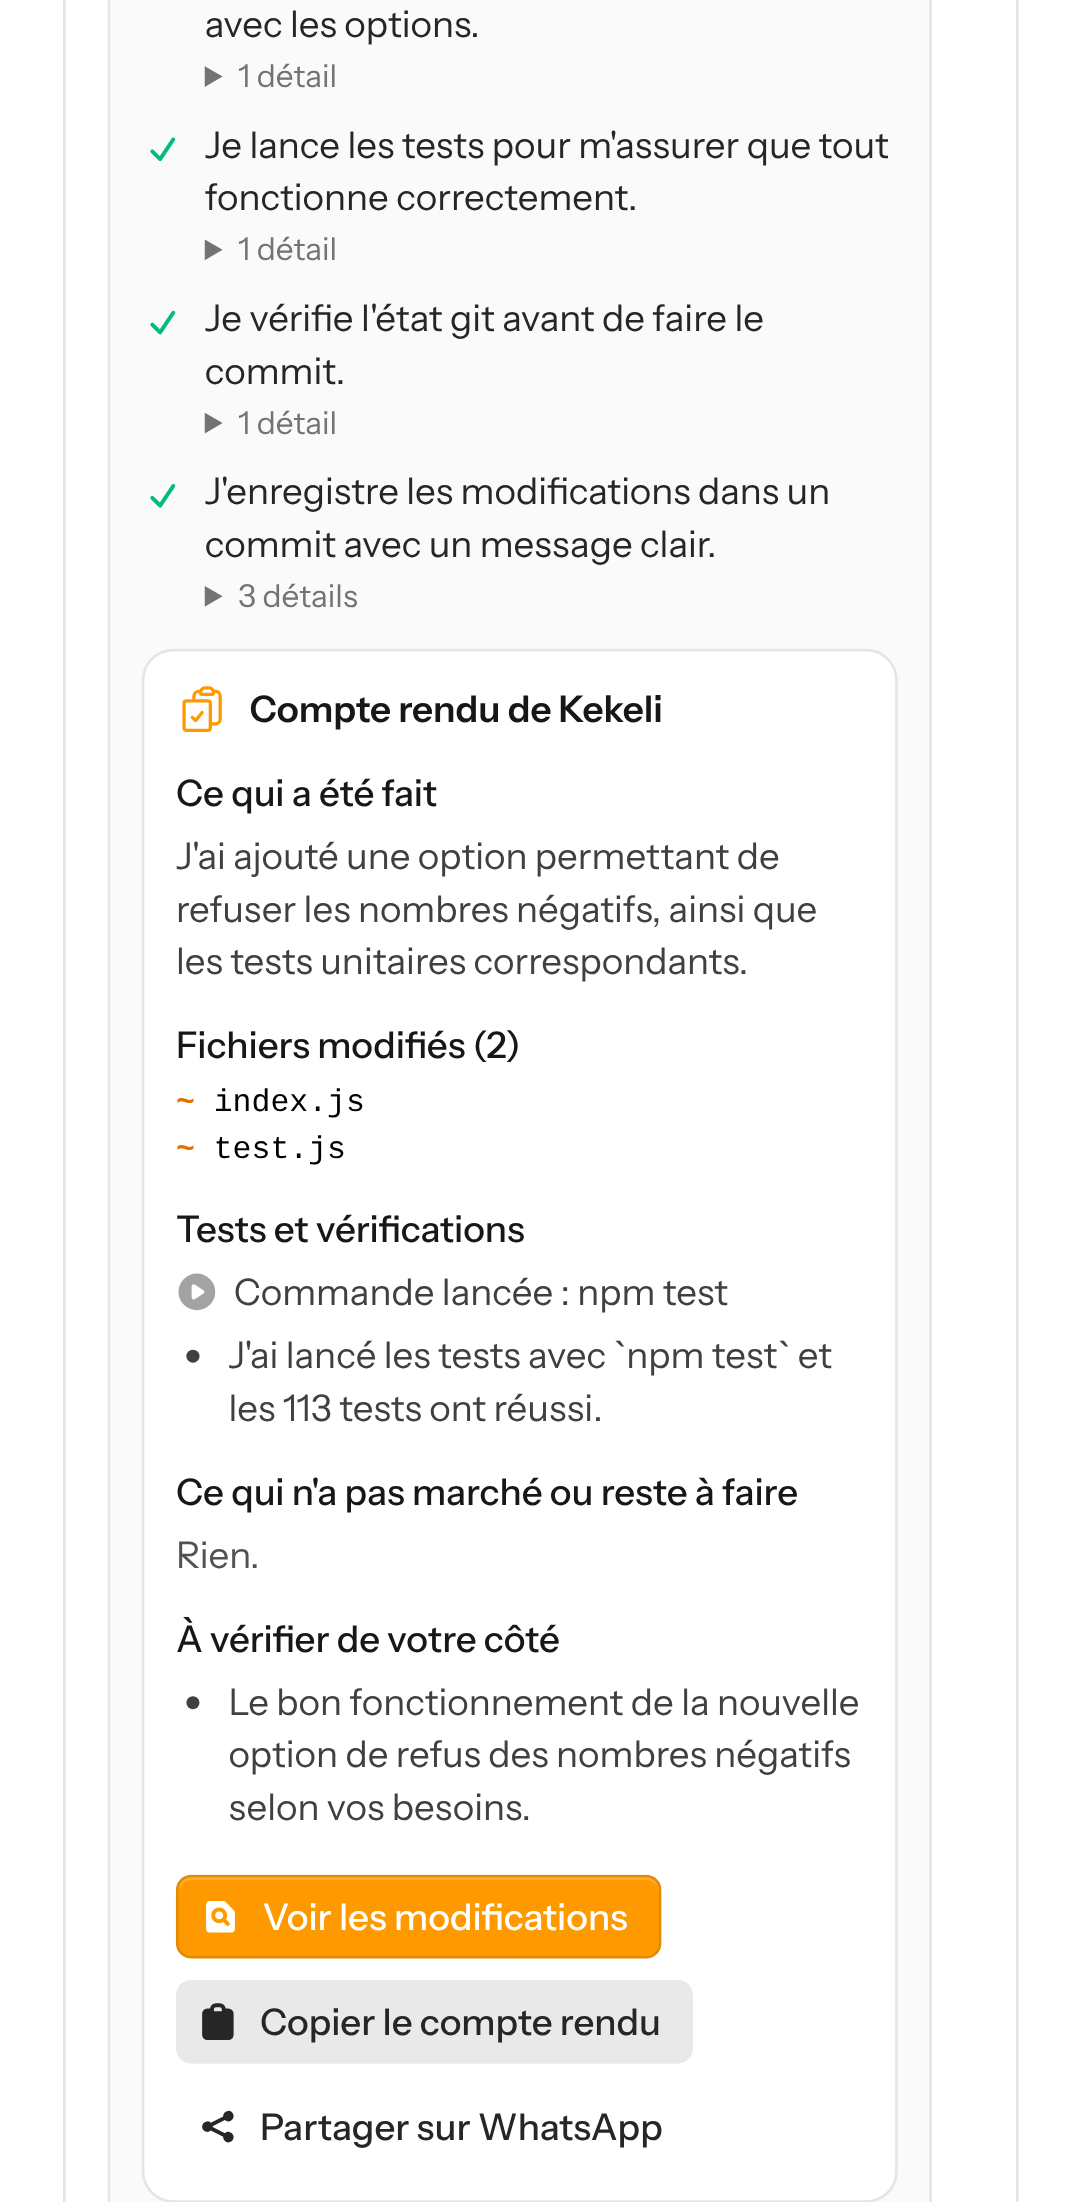
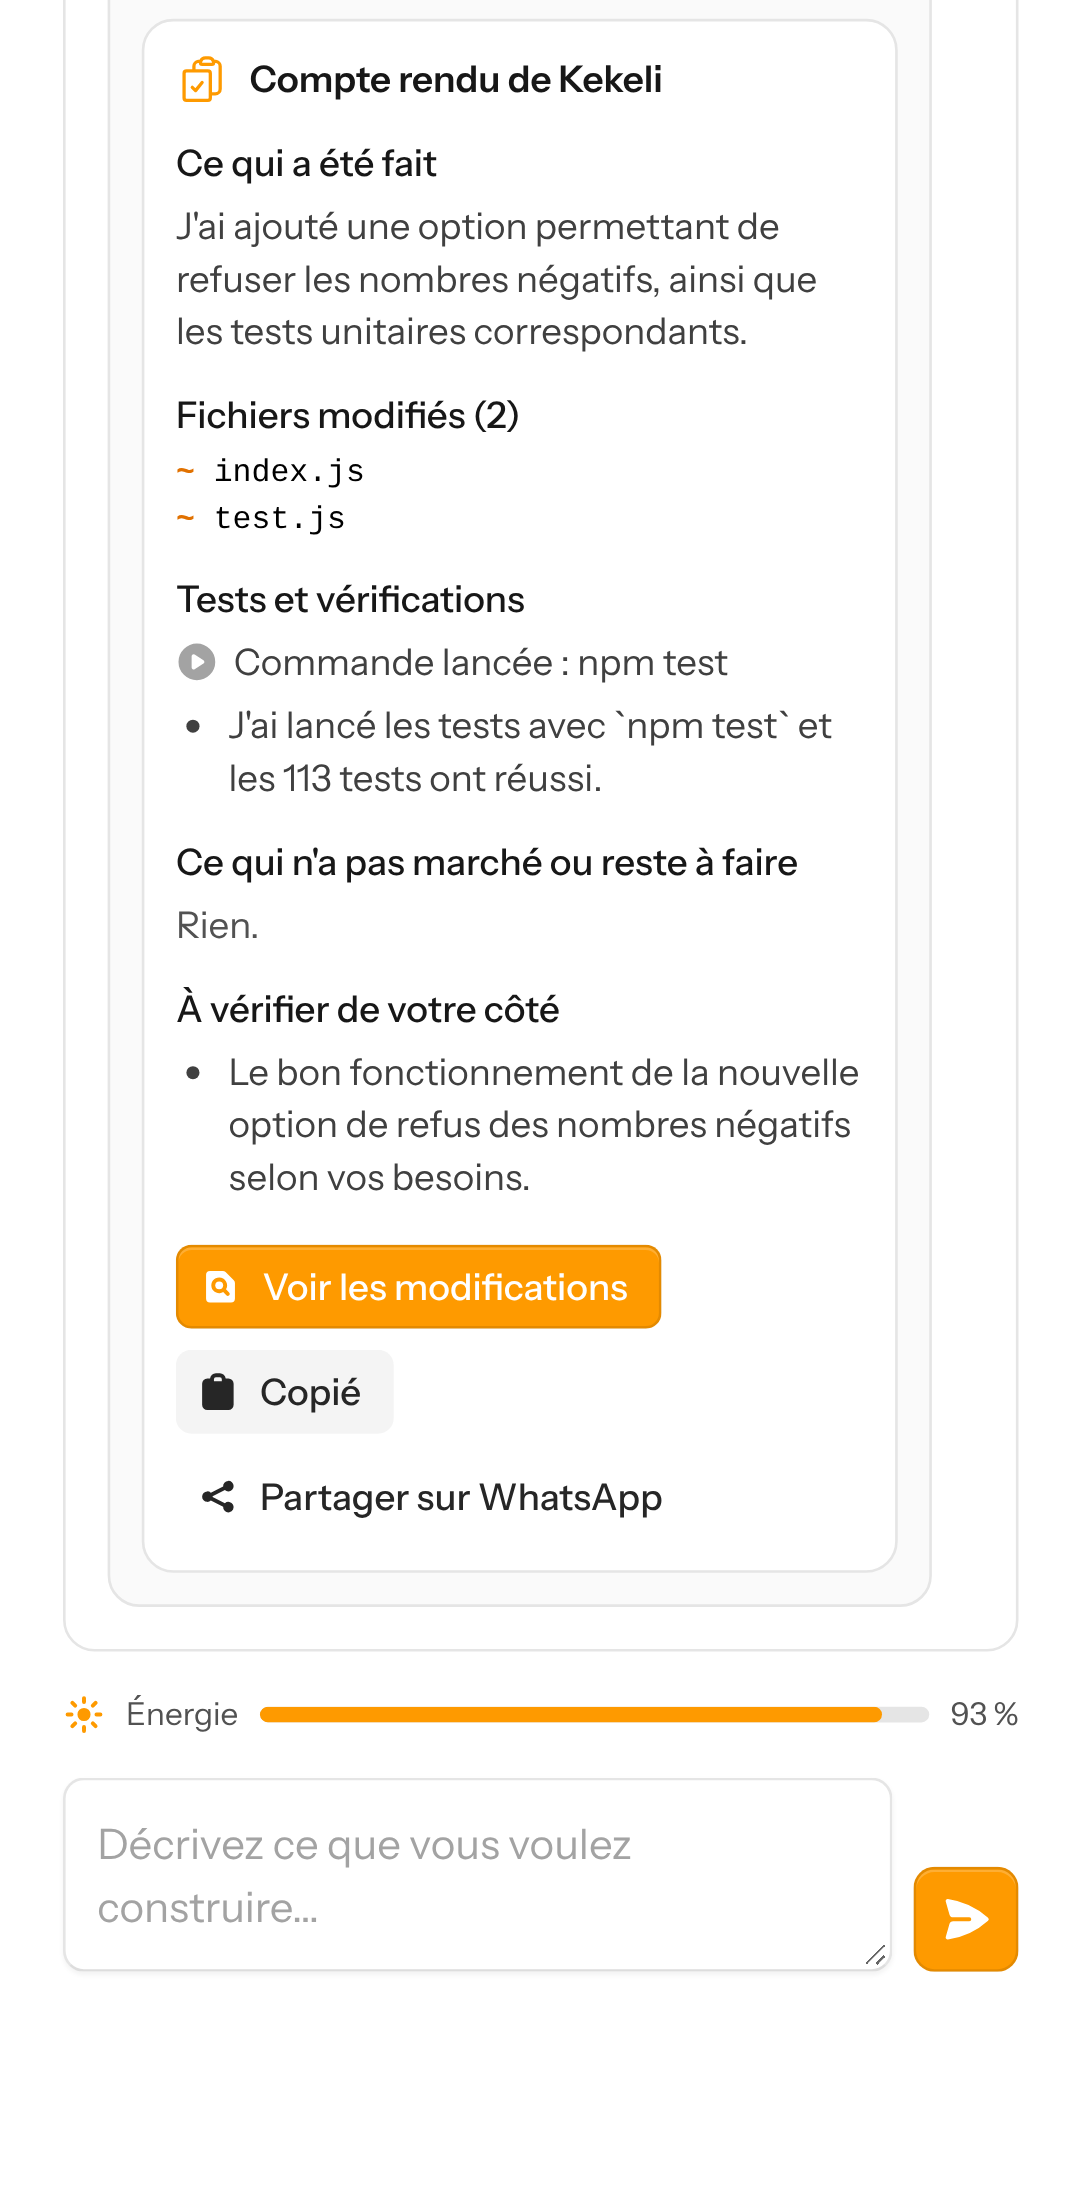
Bouton « Copier le compte rendu » réparé, historique trié du plus récent au plus ancien, coût des messages et page de captures
Claude-Session: https://claude.ai/code/session_015PWp2nHrMWtdtRTiq6YtkN

diff --git a/resources/views/components/run-report.blade.php b/resources/views/components/run-report.blade.php
@@ -5,7 +5,7 @@
     $text = \App\Agent\RunReport::text($run);
     $states = ['ajoute' => ['+', 'text-emerald-600', __('added')], 'supprime' => ['−', 'text-red-600', __('deleted')], 'renomme' => ['→', 'text-sky-600', __('renamed')], 'modifie' => ['~', 'text-amber-600', __('changed')]];
 @endphp
-<div class="mt-3 space-y-3 rounded-xl border border-zinc-200 bg-white p-3 text-sm dark:border-zinc-700 dark:bg-zinc-800" data-run-report x-data="{ copie: false }">
+<div class="mt-3 space-y-3 rounded-xl border border-zinc-200 bg-white p-3 text-sm dark:border-zinc-700 dark:bg-zinc-800" data-run-report x-data="{ copie: false, texte: @js($text) }">
     <div class="flex items-center gap-2 font-semibold text-zinc-900 dark:text-white">
         <flux:icon.clipboard-document-check class="size-5 text-amber-500" /> {{ __('Report of Kekeli') }}
     </div>
@@ -82,7 +82,7 @@
         @if (! empty($run->changes['fichiers']))
             <flux:button size="sm" variant="primary" icon="document-magnifying-glass" wire:click="showChanges('{{ $run->id }}')" data-show-changes>{{ __('See the changes') }}</flux:button>
         @endif
-        <flux:button size="sm" variant="filled" icon="clipboard" x-on:click="navigator.clipboard?.writeText(@js($text)); copie = true; setTimeout(() => copie = false, 2500)" data-copy-report>
+        <flux:button size="sm" variant="filled" icon="clipboard" x-on:click="navigator.clipboard?.writeText(texte); copie = true; setTimeout(() => copie = false, 2500)" data-copy-report>
             <span x-show="! copie">{{ __('Copy the report') }}</span><span x-show="copie" x-cloak>{{ __('Copied') }}</span>
         </flux:button>
         <flux:button size="sm" variant="ghost" icon="share" :href="'https://wa.me/?text='.rawurlencode(\Illuminate\Support\Str::limit($text, 3000))" target="_blank" data-share-whatsapp>{{ __('Share on WhatsApp') }}</flux:button>

diff --git a/tests/Feature/ClearMessagesTest.php b/tests/Feature/ClearMessagesTest.php
@@ -72,6 +72,8 @@ class ClearMessagesTest extends TestCase
         $page->assertSeeInOrder(['Compte rendu de Kekeli', 'Ce qui a été fait', 'Fichiers modifiés (2)', 'Tests et vérifications', 'Ce qui n\'a pas marché ou reste à faire', 'À vérifier de votre côté'])
             ->assertSee('Voir les modifications')
             ->assertSee('Copier le compte rendu')
+            ->assertSee('navigator.clipboard?.writeText(texte)', false)
+            ->assertDontSee('@js(', false)
             ->assertSee('https://wa.me/?text=', false);
         $this->assertSame(1, substr_count($page->getContent(), 'J&#039;ai ajouté un bouton WhatsApp vert en bas de chaque page.'));
 
@@ -130,6 +132,7 @@ class ClearMessagesTest extends TestCase
     {
         [$user, $project, $run] = $this->running();
         $this->event($run, ['type' => 'terminee', 'reponse' => "## Ce que j'ai fait\nPremière version du site."])->assertOk();
+        $this->travel(3)->minutes();
         $message = $project->messages()->create(['role' => Message::ROLE_USER, 'content' => 'Change les couleurs']);
         $second = $project->agentRuns()->create(['message_id' => $message->id, 'status' => AgentRun::STATUS_RUNNING]);
         $this->event($second, ['type' => 'terminee', 'reponse' => "## Ce que j'ai fait\nCouleurs changées en vert."])->assertOk();

diff --git a/resources/views/livewire/projects/reports.blade.php b/resources/views/livewire/projects/reports.blade.php
@@ -31,7 +31,7 @@ new class extends Component {
     #[Computed]
     public function runs()
     {
-        return $this->project->agentRuns()->with('message', 'project')->whereNotNull('report')->latest('finished_at')->latest('id')->get();
+        return $this->project->agentRuns()->with('message', 'project')->whereNotNull('report')->reorder()->latest('finished_at')->latest('created_at')->get();
     }
 
     #[Computed]

diff --git a/docs/captures/messages.md b/docs/captures/messages.md
@@ -1,0 +1,74 @@
+# Messages clairs de Kekeli : captures sur un écran de téléphone simulé
+
+Captures prises le 10 novembre 2026 sur un téléphone simulé (Pixel 7, navigateur en français), pendant des **essais réels** avec un ordinateur E2B et Gemini (offre gratuite) :
+
+- **Partie 1** : un site d'une page pour un restaurant inventé, « Chez Ama » à Lomé (création, puis une modification) ;
+- **Partie 2** : le mode développeur, sur le dépôt public `jonschlinkert/is-number`, ouvert en lecture seule (rien n'a été envoyé sur GitHub).
+
+Les noms, numéros et prix sont inventés.
+
+## Partie 1 : un site (essai réel)
+
+### 1. Pendant le travail : une phrase courte à chaque étape
+Kekeli dit ce qu'il fait et pourquoi, en français simple. La phrase en cours tourne ; les phrases terminées sont cochées.
+![Pendant le travail](messages/site-1-01-pendant.png)
+
+### 2. Les détails techniques restent en petit, dépliables
+En touchant « 1 détail », on voit les commandes et les fichiers.
+![Détails dépliés](messages/site-1-02-pendant-details.png)
+
+### 3. À la fin : le compte rendu, toujours dans le même ordre
+Ce qui a été fait ; les fichiers modifiés ; les tests et vérifications ; ce qui n'a pas marché ou reste à faire ; ce que le client doit vérifier lui-même.
+![Compte rendu](messages/site-1-04-compte-rendu.png)
+
+La page entière, avec les phrases du travail au-dessus du compte rendu :
+![Fin de la demande](messages/site-1-03-fin.png)
+
+### 4. « Voir les modifications »
+Chaque fichier ajouté, modifié ou supprimé ; en vert, ce qui a été ajouté ; en rouge, ce qui a été retiré.
+![Voir les modifications](messages/site-1-05-modifications.png)
+
+### 5. « Copier le compte rendu » et « Partager sur WhatsApp »
+![Copier et partager](messages/site-1-06-copie.png)
+
+### 6. Une modification : « ajoute une section Livraison et passe la couleur en vert »
+Pendant le travail :
+![Pendant la modification](messages/site-2-01-pendant.png)
+![Détails de la modification](messages/site-2-02-pendant-details.png)
+
+Le compte rendu :
+![Compte rendu de la modification](messages/site-2-04-compte-rendu.png)
+
+Les modifications : l'ancienne couleur en rouge, le nouveau vert et la nouvelle section en vert.
+![Modifications de la couleur et de la section](messages/site-2-05-modifications.png)
+
+![Fin de la modification](messages/site-2-03-fin.png)
+![Copier le compte rendu de la modification](messages/site-2-06-copie.png)
+
+### 7. L'historique de tous les comptes rendus du projet
+Bouton « Comptes rendus » du projet, du plus récent au plus ancien.
+![Historique](messages/site-07-historique.png)
+![Historique complet](messages/site-08-historique-complet.png)
+
+## Partie 2 : le mode développeur (essai réel)
+
+### 1. Pendant le travail
+Kekeli ouvre le dépôt, reconnaît un projet Node.js et installe les outils (« Kekeli se prépare »), puis explique chaque étape : il lit la documentation, lance les tests existants, ajoute l'option, ajoute ses tests, relance les tests et enregistre son travail.
+![Pendant le travail](messages/depot-1-01-pendant.png)
+![Détails dépliés](messages/depot-1-02-pendant-details.png)
+
+### 2. Le compte rendu
+Les tests lancés (« npm test ») et le résultat dit par Kekeli : les 113 tests ont réussi.
+![Compte rendu](messages/depot-1-04-compte-rendu.png)
+![Fin de la demande](messages/depot-1-03-fin.png)
+
+### 3. « Voir les modifications »
+![Voir les modifications](messages/depot-1-05-modifications.png)
+
+### 4. Copier, partager et historique
+![Copier et partager](messages/depot-1-06-copie.png)
+![Historique](messages/depot-07-historique.png)
+![Historique complet](messages/depot-08-historique-complet.png)
+
+## Coût en plus
+Environ 0,3 à 0,5 FCFA par demande, soit 1 à 2 % de l'énergie d'une demande (estimation mesurée sur ces essais). Détails dans [`docs/couts.md`](../couts.md), partie « Messages clairs ».

diff --git a/docs/couts.md b/docs/couts.md
@@ -170,3 +170,24 @@ Le dépôt est ouvert, les outils installés, le travail fait par l'agent et les
 
 L'installation des outils (environ 1 minute pour Laravel) n'a lieu qu'une fois par ordinateur. Le coût vient surtout de la lecture du projet par l'agent (85 000 à 120 000 tokens envoyés, plus le cache) : **sur un gros projet, le coût d'une demande peut être plusieurs fois plus élevé**. Une correction automatique après un échec de la vérification de GitHub coûte une demande de plus (2 au plus par envoi, réglable). Ces chiffres viennent de deux essais : ce sont des estimations.
 
+## Messages clairs : coût en plus (essais réels du 10 novembre 2026)
+
+Pendant le travail, Kekeli écrit une phrase courte avant chaque groupe d'actions ; à la fin, il écrit un compte rendu avec cinq titres ; le site montre aussi les modifications. Ce qui coûte en plus, mesuré sur trois demandes réelles avec E2B et Gemini 3.5 Flash-Lite (offre gratuite ; estimation au prix payant équivalent : 0,30 $ par million de tokens envoyés, 0,03 $ en cache, 2,50 $ écrits ; 1 $ = 590 FCFA) :
+
+| Demande | Requêtes | Phrases écrites | **Énergie totale** | Phrases | Consignes en plus | Photo et comparaison | **Coût en plus** |
+|---|---|---|---|---|---|---|---|
+| Site d'une page « Chez Ama » (création) | 12 | 10 phrases, 600 caractères | 28,3 FCFA | 0,25 FCFA | 0,12 FCFA | 0,05 FCFA | **environ 0,4 FCFA** |
+| Ajout de la section « Livraison » et couleur verte | 7 | 6 phrases, 388 caractères | 17,8 FCFA | 0,16 FCFA | 0,09 FCFA | 0,05 FCFA | **environ 0,3 FCFA** |
+| Mode développeur, `jonschlinkert/is-number` (option et tests) | 13 | 12 phrases, 853 caractères | 33,1 FCFA | 0,36 FCFA | 0,12 FCFA | 0,05 FCFA | **environ 0,5 FCFA** |
+
+Comment c'est calculé :
+- **Phrases** : les caractères écrits par l'agent pour parler au client, divisés par 3,5 (taille moyenne d'un token en français), au prix des tokens écrits.
+- **Consignes en plus** : environ 1 100 caractères (environ 320 tokens) ajoutés aux consignes de chaque requête ; la première requête les envoie, les suivantes les lisent en cache.
+- **Photo et comparaison** : environ 2 secondes de l'ordinateur virtuel avant et après la demande.
+- **Compte rendu, « Voir les modifications », « Copier » et historique** : **0 FCFA**. Le compte rendu est construit par le site Kekeli à partir de ce qu'il sait déjà ; il ne demande **aucune requête de plus** au modèle. Les cinq titres du compte rendu final ajoutent seulement quelques mots à la réponse que l'agent écrivait déjà.
+
+**Résultat : les messages clairs coûtent environ 0,3 à 0,5 FCFA par demande, soit 1 à 2 % de l'énergie d'une demande.** Pour comparer : l'essai du mode développeur sur le même dépôt coûtait 33 FCFA avant ce chantier, et 33,1 FCFA après. Un client gratuit (30 FCFA d'énergie par jour) ne perd donc presque rien.
+
+**Relance après une erreur passagère du modèle** : quand Gemini répond par une erreur passagère, Kekeli relance le travail (deux fois au plus, puis passe au modèle suivant). Chaque relance coûte une requête de plus (environ 2 FCFA) seulement quand l'erreur arrive ; sans elle, la demande échouait et tout le travail déjà fait était perdu.
+
+Ces chiffres viennent de trois demandes : ce sont des estimations ; ils varient d'une demande à l'autre.
